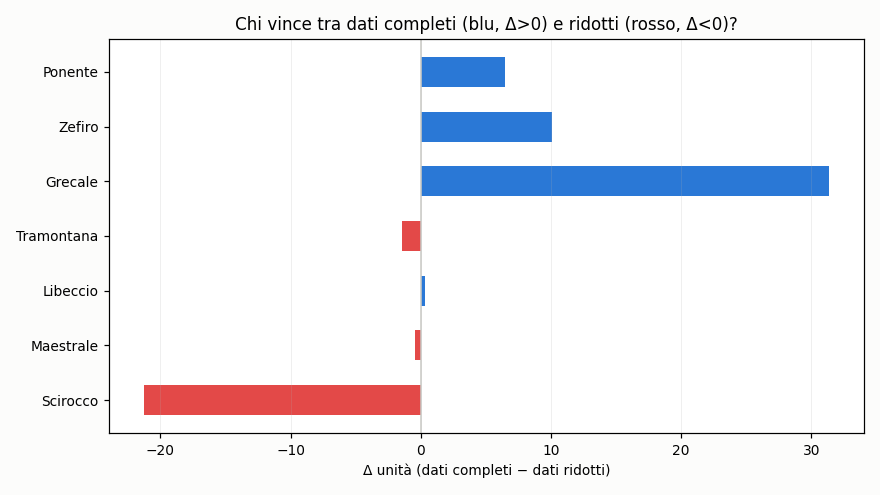
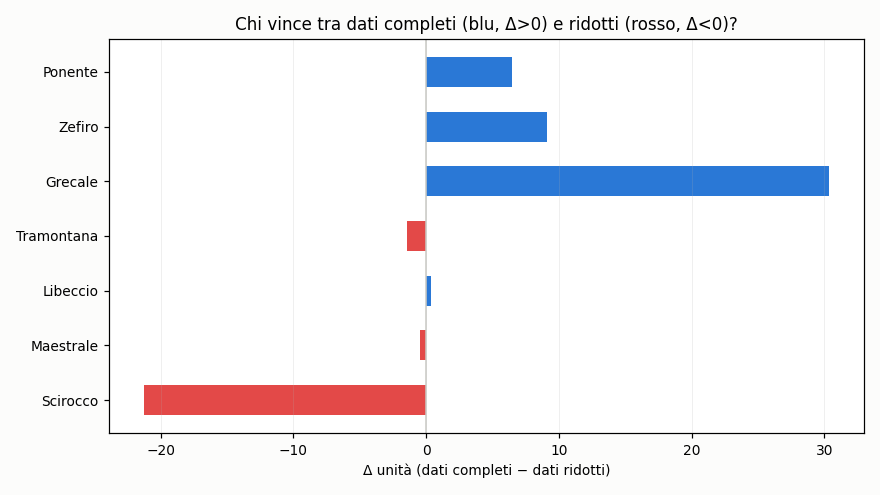
aggiornamento 2026-07-25 16:01 UTC

diff --git a/README.md b/README.md
@@ -37,9 +37,9 @@ scala in unità). Non indichiamo quale.
 
 ## Grafici
 
-![Coppie: dati completi vs ridotti](https://raw.githubusercontent.com/Kitem19/ippica-track-record/main/charts/equity_pairs.png?v=4e087505)
+![Coppie: dati completi vs ridotti](https://raw.githubusercontent.com/Kitem19/ippica-track-record/main/charts/equity_pairs.png?v=3a5ec017)
 
-![Delta per coppia](https://raw.githubusercontent.com/Kitem19/ippica-track-record/main/charts/coppie_delta.png?v=13ea9b01)
+![Delta per coppia](https://raw.githubusercontent.com/Kitem19/ippica-track-record/main/charts/coppie_delta.png?v=b836e765)
 
 ### Come leggere i grafici
 
@@ -60,30 +60,30 @@ _Poche giornate: numeri ancora rumorosi, si conclude a fine fase (31/7)._
 - **Maestrale**: in sostanziale pareggio — troppo presto per dire
 - **Libeccio**: in sostanziale pareggio — troppo presto per dire
 - **Tramontana**: in sostanziale pareggio — troppo presto per dire
-- **Grecale**: dati completi avanti di 31,4u
-- **Zefiro**: dati completi avanti di 10,1u
+- **Grecale**: dati completi avanti di 30,4u
+- **Zefiro**: dati completi avanti di 9,1u
 - **Ponente**: dati completi avanti di 6,4u
 
 ## Classifica (conteggio ufficiale)
 
 | Sistema | Cassa (u) | P/L (u) | Selezioni | Escluse | Stato |
 |---|---|---|---|---|---|
-| Grecale | 31,1 | +11,1 | 294 | 4 | 🟢 |
+| Grecale | 30,1 | +10,1 | 295 | 4 | 🟢 |
 | Scirocco-B | 21,2 | +1,2 | 219 | 0 | 🟢 |
-| Zefiro | 9,7 | -10,3 | 256 | 5 | 🟢 |
+| Zefiro | 8,7 | -11,3 | 257 | 5 | 🟢 |
 | Ponente | 5,5 | -14,5 | 205 | 28 | 🟢 |
-| Tramontana-B | 1,2 | -18,8 | 323 | 3 | ⏸ |
-| Maestrale-B | 0,0 | -20,0 | 100 | 225 | 🛑 |
+| Tramontana-B | 1,2 | -18,8 | 323 | 4 | ⏸ |
+| Maestrale-B | 0,0 | -20,0 | 100 | 226 | 🛑 |
 | Scirocco | 0,0 | -20,1 | 80 | 235 | 🛑 |
 | Grecale-B | 0,0 | -20,2 | 137 | 165 | 🛑 |
-| Tramontana | 0,0 | -20,3 | 45 | 297 | 🛑 |
+| Tramontana | 0,0 | -20,3 | 45 | 298 | 🛑 |
 | Zefiro-B | 0,0 | -20,5 | 143 | 65 | 🛑 |
-| Maestrale | 0,0 | -20,5 | 104 | 246 | 🛑 |
-| Libeccio | 0,0 | -20,6 | 181 | 154 | 🛑 |
-| Libeccio-B | 0,0 | -20,9 | 119 | 170 | 🛑 |
+| Maestrale | 0,0 | -20,5 | 104 | 247 | 🛑 |
+| Libeccio | 0,0 | -20,6 | 181 | 155 | 🛑 |
+| Libeccio-B | 0,0 | -20,9 | 119 | 171 | 🛑 |
 | Ponente-B | 0,0 | -21,0 | 63 | 82 | 🛑 |
 
-_Aggiornato: 25/07 17:56_
+_Aggiornato: 25/07 18:01_
 ---
 *Nessuna delle informazioni qui pubblicate costituisce consiglio di gioco.
 Il gioco può causare dipendenza — 18+.*
